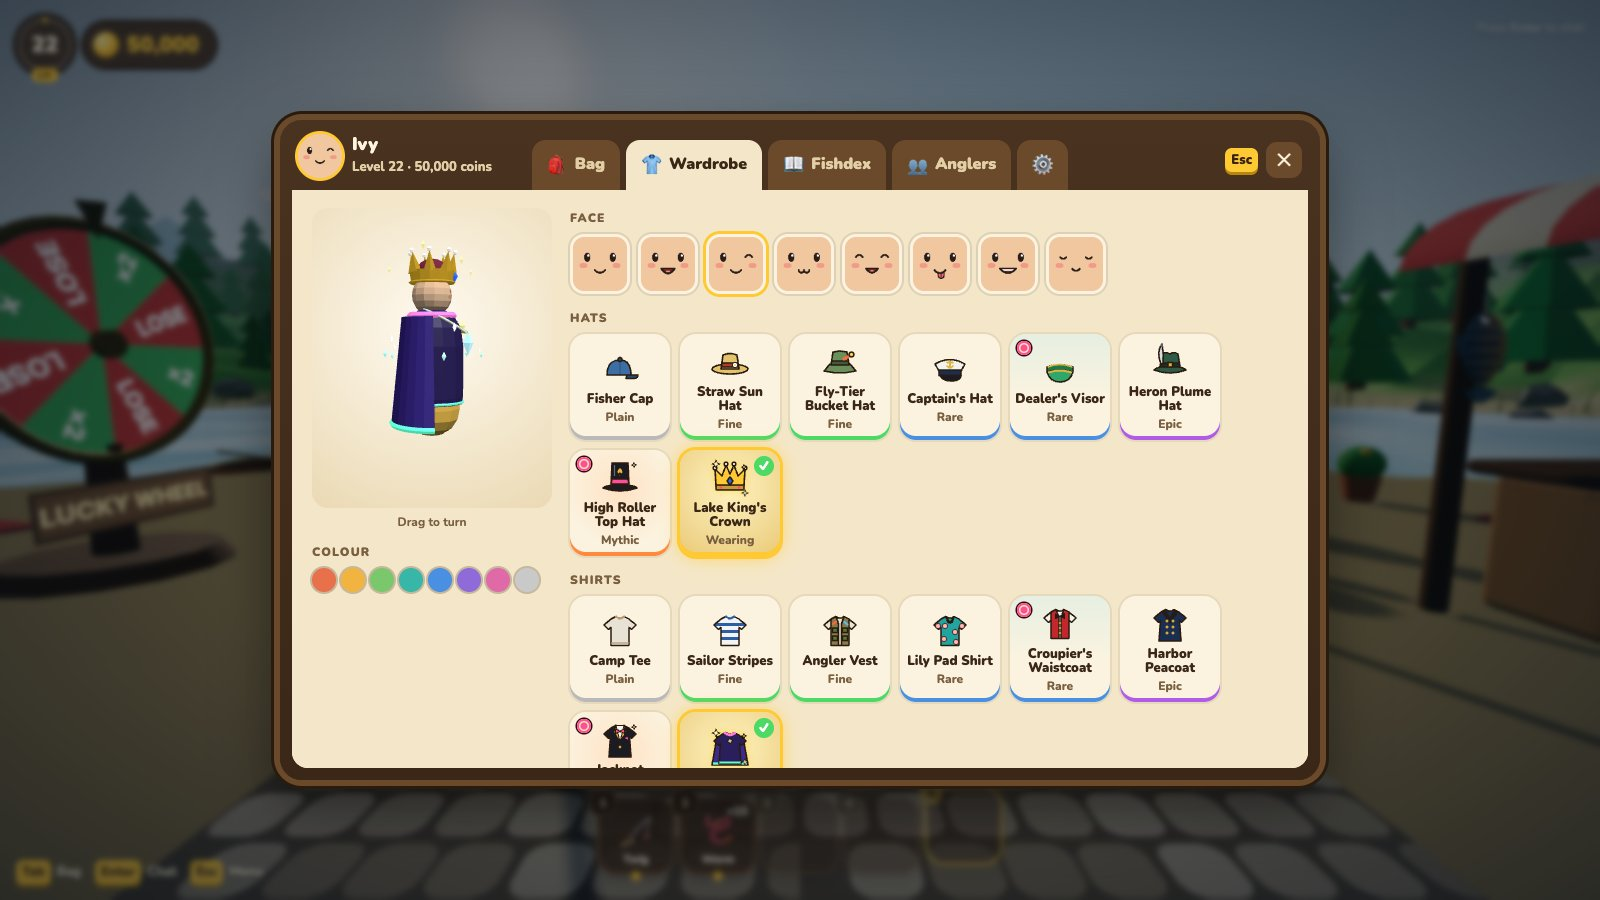
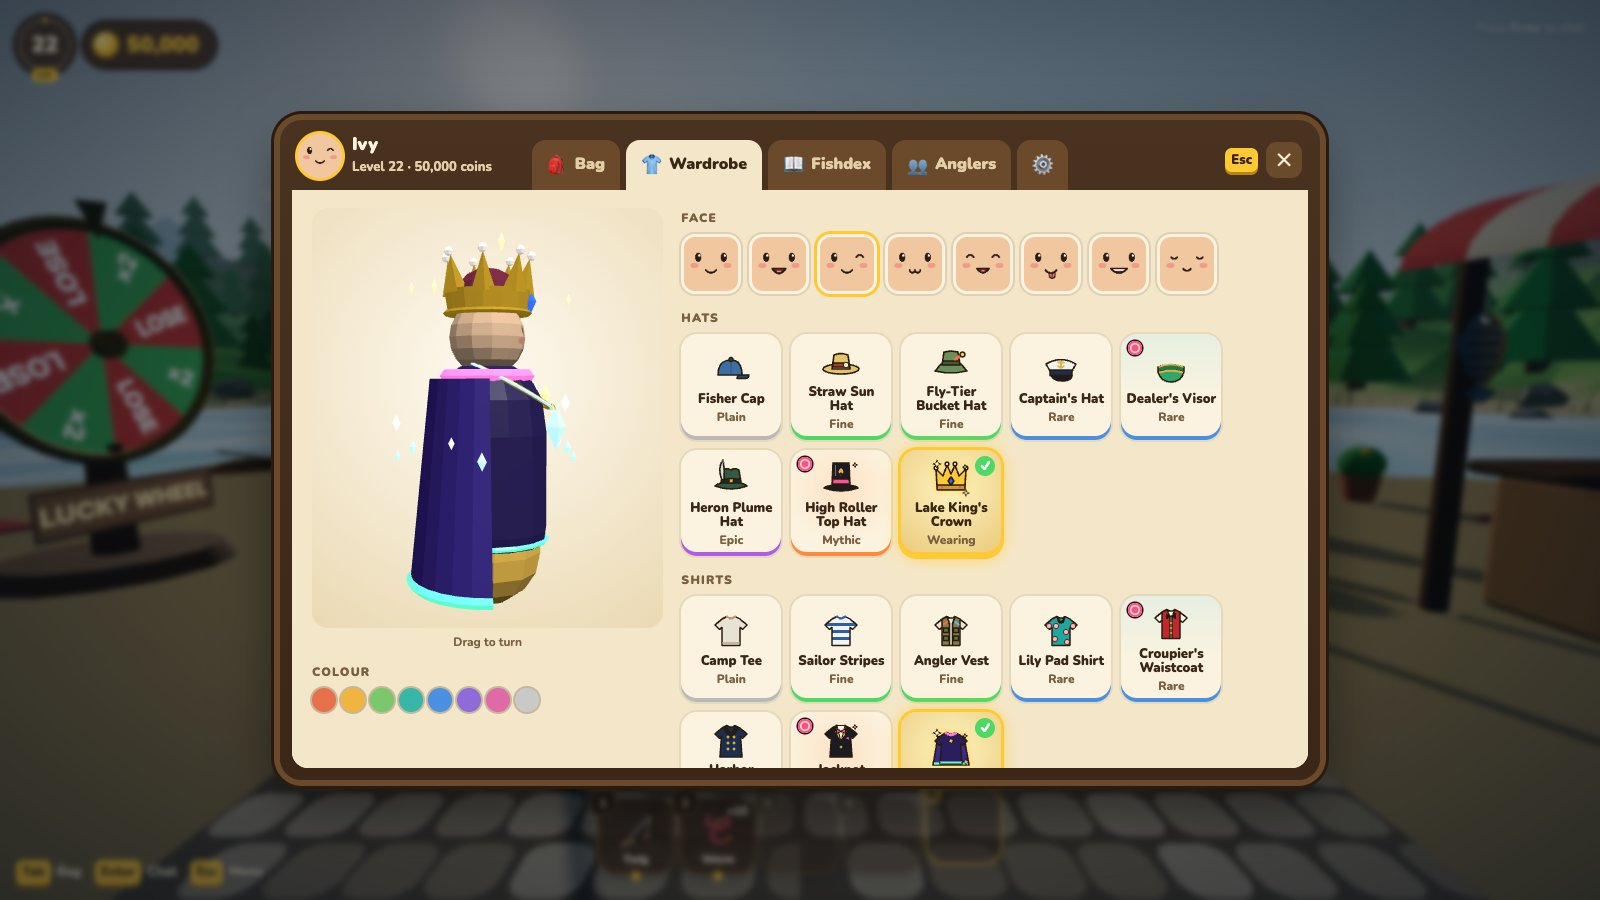
Size the wardrobe and shop character preview to the menu panel
The preview canvas now takes its size from the window (wider wardrobe column,
height from the window height), renders at that exact size, and frames the
character to fill it. Fixes the shop preview being stretched from 240x300 into
a 258x220 box. The join screen keeps its fixed 240x300 preview.

Changed region(s): [[0.1875, 0.2178, 0.7812, 0.8711]]

diff --git a/src/style.css b/src/style.css
@@ -207,9 +207,9 @@ button:disabled { cursor: default; }
 h4 { margin: 0 0 8px; font-size: 12px; font-weight: 900; letter-spacing: .1em; text-transform: uppercase; color: var(--ink-muted); }
 .tier { display: inline-block; font-size: 11px; font-weight: 900; padding: 0 6px; border: 2px solid; border-radius: 8px; }
 
-#menu { position: fixed; inset: 0; z-index: 20; display: flex; align-items: center; justify-content: center; background: rgba(8, 14, 22, .5); backdrop-filter: blur(3px); }
+#menu { --win-h: min(660px, 88vh); position: fixed; inset: 0; z-index: 20; display: flex; align-items: center; justify-content: center; background: rgba(8, 14, 22, .5); backdrop-filter: blur(3px); }
 #menu.hidden { display: none; }
-#menu > .win { width: min(1040px, 94vw); height: min(660px, 88vh); display: flex; flex-direction: column; border-radius: 22px; background: linear-gradient(180deg, var(--wood-700), var(--wood-800)); box-shadow: 0 0 0 6px var(--wood-600), 0 0 0 9px var(--wood-900), 0 24px 60px rgba(0,0,0,.55); overflow: hidden; }
+#menu > .win { width: min(1040px, 94vw); height: var(--win-h); display: flex; flex-direction: column; border-radius: 22px; background: linear-gradient(180deg, var(--wood-700), var(--wood-800)); box-shadow: 0 0 0 6px var(--wood-600), 0 0 0 9px var(--wood-900), 0 24px 60px rgba(0,0,0,.55); overflow: hidden; }
 .win-bar { display: flex; align-items: flex-end; gap: 16px; padding: 14px 18px 0; }
 .who { flex: 1 1 0; min-width: 0; display: flex; align-items: center; gap: 10px; padding-bottom: 12px; }
 .who > div { min-width: 0; }
@@ -231,7 +231,7 @@ h4 { margin: 0 0 8px; font-size: 12px; font-weight: 900; letter-spacing: .1em; t
 .win-bar:has(.tabs:empty) + .sheet { border-radius: 16px; }
 
 .cols { display: grid; grid-template-columns: minmax(0, 1fr) 290px; gap: 18px; align-items: start; }
-.cols.wardrobe { grid-template-columns: 240px minmax(0, 1fr); }
+.cols.wardrobe { grid-template-columns: minmax(240px, 36%) minmax(0, 1fr); }
 .main > h4 { margin-top: 2px; }
 .main > .tiles { margin-bottom: 16px; }
 .foot { margin: 4px 0 0; font-size: 13px; color: var(--ink-muted); }
@@ -290,9 +290,8 @@ h4 { margin: 0 0 8px; font-size: 12px; font-weight: 900; letter-spacing: .1em; t
 .detail p { margin: 0; font-size: 14px; font-weight: 700; color: var(--ink-muted); line-height: 1.4; }
 .detail h4 { margin: 4px 0 0; }
 .detail .have { font-size: 14px; font-weight: 800; }
-.detail #pv-slot canvas.preview { width: 100%; height: 220px; }
-/* On short screens the counter windows are shorter, so shrink the try-on preview to keep Buy above the sell strip. */
-@media (max-height: 820px) { .sheet.tab-shop .detail #pv-slot canvas.preview, .sheet.tab-casino .detail #pv-slot canvas.preview { height: 140px; object-fit: contain; } }
+/* The try-on preview takes the window height left after the item details and sell strip, so Buy stays above the strip. */
+.detail #pv-slot canvas.preview { height: clamp(120px, calc(var(--win-h) - 400px), 300px); }
 .badge { display: inline-block; font-size: 11px; font-weight: 900; padding: 2px 8px; border-radius: 6px; color: #fff; background: var(--c); }
 .stat { font-size: 14px; font-weight: 800; }
 .srow { display: flex; justify-content: space-between; margin-bottom: 4px; }
@@ -310,7 +309,8 @@ h4 { margin: 0 0 8px; font-size: 12px; font-weight: 900; letter-spacing: .1em; t
 .btn.plain:disabled { color: var(--ink-muted); }
 
 /* wardrobe */
-canvas.preview { position: static; display: block; width: 240px; height: 300px; border-radius: 16px; cursor: grab; touch-action: none; background: radial-gradient(circle at 50% 40%, #fffaf0, var(--paper-2)); }
+/* The preview renders at whatever size these rules give it (see CharacterPreview.fit). */
+canvas.preview { position: static; display: block; width: 100%; height: clamp(260px, calc(var(--win-h) - 240px), 520px); border-radius: 16px; cursor: grab; touch-action: none; background: radial-gradient(circle at 50% 40%, #fffaf0, var(--paper-2)); }
 canvas.preview.dragging { cursor: grabbing; }
 .drag-hint { margin: 6px 0 14px; text-align: center; font-size: 12px; color: var(--ink-muted); }
 .swatches { display: flex; flex-wrap: wrap; gap: 5px; align-items: center; }
@@ -382,8 +382,8 @@ canvas.preview.dragging { cursor: grabbing; }
 /* shop and prize counter: sit higher so the hotbar stays visible and clickable for selling */
 #hud { z-index: 1; }
 body.shopping #hud { z-index: 30; }
-body.shopping #menu { align-items: flex-start; padding-top: 24px; pointer-events: none; }
-body.shopping #menu > .win { height: calc(100vh - 170px); max-height: 640px; pointer-events: auto; }
+body.shopping #menu { --win-h: min(100vh - 170px, 640px); align-items: flex-start; padding-top: 24px; pointer-events: none; }
+body.shopping #menu > .win { pointer-events: auto; }
 body.shopping #hotbar { pointer-events: auto; }
 /* the window header already shows coins or chips; keep the HUD from drawing over it */
 body.shopping #hud-tl, body.shopping #ctx, body.shopping #chat, body.shopping #help { display: none; }
@@ -418,6 +418,7 @@ body.shopping #hud-tl, body.shopping #ctx, body.shopping #chat, body.shopping #h
 #join .muted { margin: 0 0 14px; color: var(--ink-muted); font-weight: 700; }
 #join .split { display: flex; gap: 20px; align-items: flex-start; }
 #join .grow { flex: 1; min-width: 0; }
+#join-preview canvas.preview { width: 240px; height: 300px; }
 #join label { display: block; margin: 10px 0 6px; font-size: 12px; font-weight: 900; letter-spacing: .1em; text-transform: uppercase; color: var(--ink-muted); }
 #join-name { width: 100%; font: inherit; font-size: 18px; padding: 10px 12px; border-radius: 12px; border: 3px solid var(--wood-500); background: var(--paper-3); color: var(--ink); outline: none; }
 #join-name:focus { border-color: var(--gold-dark); }

diff --git a/src/game/character.ts b/src/game/character.ts
@@ -585,6 +585,9 @@ const DRAG_TURN = 0.012;
  * One shared WebGL canvas showing a slowly spinning character; moved into whichever menu tab
  * needs it. Click and drag to turn it by hand.
  */
+/** The box the preview keeps in view: hem to the tallest hat, and wide enough for a spinning cloak. */
+const FRAME = { y: 1.2, h: 2.2, w: 1.4 };
+
 export class CharacterPreview {
   readonly canvas = document.createElement('canvas');
   private renderer = new THREE.WebGLRenderer({ canvas: this.canvas, antialias: true, alpha: true });
@@ -599,9 +602,9 @@ export class CharacterPreview {
   constructor(look: Look) {
     this.canvas.className = 'preview';
     this.renderer.setPixelRatio(Math.min(2, devicePixelRatio));
-    this.renderer.setSize(240, 300, false);
-    this.cam.position.set(0, 1.25, 5.2);
-    this.cam.lookAt(0, 1.0, 0);
+    this.fit();
+    // The menu's CSS sets the canvas size; follow it so the render stays sharp and unstretched.
+    new ResizeObserver(() => this.fit()).observe(this.canvas);
     this.scene.add(new THREE.HemisphereLight(0xffffff, 0x556677, 1.6));
     const sun = new THREE.DirectionalLight(0xffffff, 2.2);
     sun.position.set(2, 4, 3);
@@ -625,6 +628,19 @@ export class CharacterPreview {
     };
     this.canvas.addEventListener('pointerup', end);
     this.canvas.addEventListener('pointercancel', end);
+  }
+
+  /** Matches the render to the canvas's on-screen size and moves the camera so a dressed character fills it. */
+  private fit(): void {
+    const w = this.canvas.clientWidth || 240;
+    const h = this.canvas.clientHeight || 300;
+    this.renderer.setSize(w, h, false);
+    this.cam.aspect = w / h;
+    const tan = Math.tan(THREE.MathUtils.degToRad(this.cam.fov / 2));
+    const dist = Math.max(FRAME.h / (2 * tan), FRAME.w / (2 * tan * this.cam.aspect));
+    this.cam.position.set(0, FRAME.y + dist * 0.05, dist);
+    this.cam.lookAt(0, FRAME.y, 0);
+    this.cam.updateProjectionMatrix();
   }
 
   set(look: Look): void {

diff --git a/TODO.md b/TODO.md
@@ -77,7 +77,7 @@
   - Higher tiers of fish should be more extreme/special (visually and in size)
 - [x] Add an in game element by the casino teleport that add a popup with a screenshot of the inside of the casino
   - This is nice to show newer players whats waiting for them.
-- [ ] Make the wardrobe/cosmetics shop player preview proportionally sized
+- [x] Make the wardrobe/cosmetics shop player preview proportionally sized
   - The spinning character preview is too small; size it in proportion to the menu panel instead of fixed pixels
   - Sizes are hard-coded in `src/style.css` (`canvas.preview` 240×300 at line 308, `#pv-slot` 220px/140px at lines 288-290); the canvas comes from `CharacterPreview` in `src/game/character.ts:600`. Check its render resolution follows the new size so it doesn't blur
 - [x] Safety net for players with no bait and no money: dig for worms on the beach
